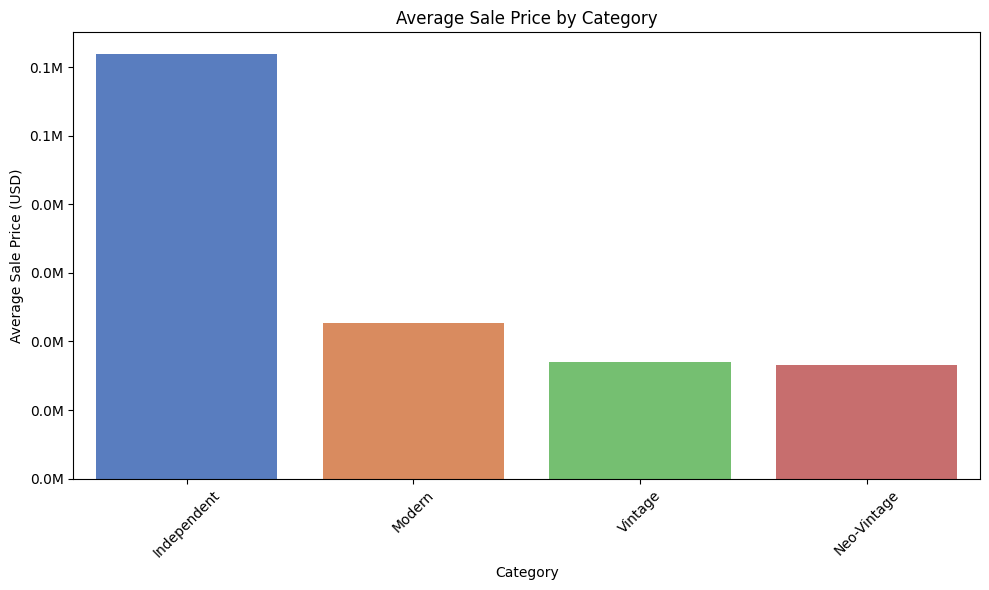
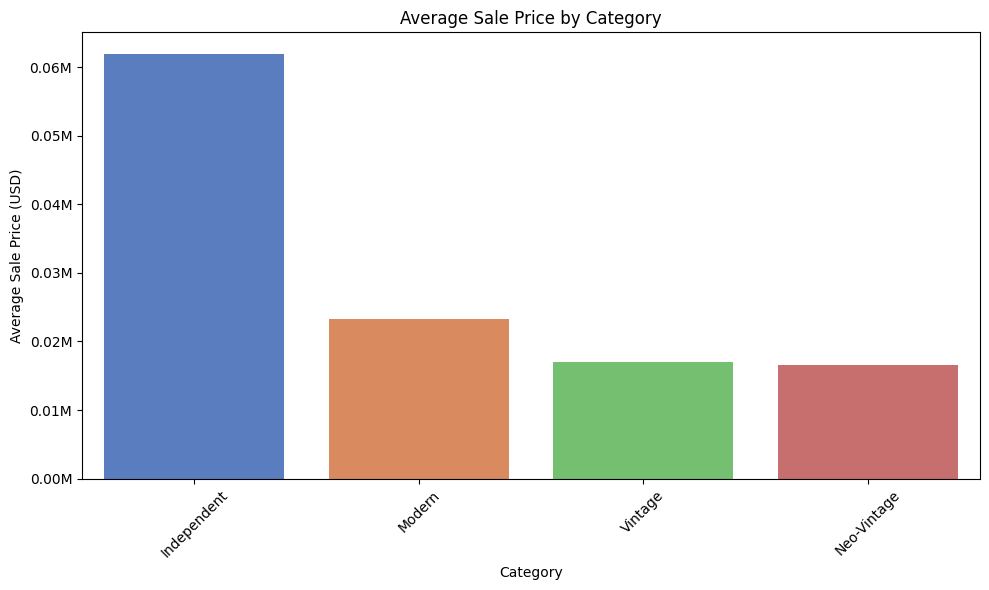
updated html

diff --git a/docs/index.html b/docs/index.html
@@ -537,20 +537,20 @@
                 <img src="images/cat_by_avg_sale_price.png" alt="Average Sale Price by Category">
             </div>
             <p>
-                <strong> Modern watches overwhelmingly dominated the auction, generating over $7 million in total sales.</strong> This suggests a strong preference among collectors for contemporary timepieces, likely due to their widespread availability, advanced technology, and appeal to a broader audience. 
-                In contrast, categories like vintage, independent, and neo-vintage contributed smaller portions to the total sales, with vintage watches leading among these.<br><br>
+                Modern watches dominate in terms of total sales, generating over $7 million, significantly outpacing other categories. This reflects the high demand and broader appeal of contemporary timepieces, 
+                which tend to attract both new and seasoned collectors. The accessibility and availability of modern watches likely contribute to their overwhelming market share.<br><br>
 
-                Independent watches, despite contributing less to total sales, command the highest average prices, exceeding $100,000 per watch. This indicates that independent watchmakers are highly valued for their exclusivity, 
-                craftsmanship, and rarity. Collectors are willing to pay a premium for these timepieces, which cater to more niche tastes.<br><br>
+                Independent watches, on the other hand, command the highest average sale price, exceeding $60,000 per piece, despite having relatively low total sales. 
+                This suggests that independent watchmakers, while catering to a more niche market, are highly valued for their exclusivity, craftsmanship, and unique designs, leading to higher price points for each sale.<br><br>
 
-                Modern watches, while leading in total sales volume, tend to have more accessible price points. Their popularity likely stems from the fact that they appeal to a wider range of buyers, offering a balance between 
-                innovation and affordability, making them attractive to a broader market.<br><br>
+                Vintage and neo-vintage watches have more modest performances in both total sales and average sale price. Vintage watches show slightly stronger overall sales than independent watches, 
+                yet they fall behind in terms of average price. Neo-vintage watches, blending modern and vintage elements, remain less popular, perhaps due to a smaller collector base or less perceived value compared to other categories.<br><br>
 
-                Vintage and neo-vintage watches have comparable average prices, though vintage watches achieved better sales overall. These categories attract collectors interested in historical significance and classic designs, 
-                though neo-vintage, which blends modern and vintage elements, remains an emerging area in the luxury watch market.<br><br>
+                The clear distinction between modern watches, which lead in volume, and independent watches, which lead in value, indicates diverse buyer preferences in the auction market. While modern timepieces appeal to a broader audience, 
+                collectors are willing to pay a premium for rare and artisanal independent watches. This balance reflects a market that caters to both mainstream buyers and connoisseurs.<br><br>
 
-                To conclude, modern watches are preferred in terms of volume, while independent watches hold the highest value among collectors. Vintage and neo-vintage watches continue to appeal to a more specialized group of buyers, 
-                highlighting a diverse market that caters to various preferences from modern designs to rare, handcrafted pieces.
+                In summary, modern watches dominate total sales, while independent watches lead in average sale price. Vintage and neo-vintage watches have more limited demand but still maintain relevance. 
+                The data suggests a strong and diverse market, with collectors showing interest in both readily available modern pieces and more exclusive, high-end independent creations.
             </p>
 
         </div>

diff --git a/index.html b/index.html
@@ -33,7 +33,7 @@
                 </p>
                 <!-- Methodology -->
                 <h2 style="text-align: center;">Methodology</h2>
-                <p>The data presented in this report was collected from auction results published by Phillips and Christie's, covering the period of the September 2024 New York auction season. 
+                <p>The data presented in this report was collected from auction results published by Phillips and Christie's, covering the period of the June 2024 New York auction season. 
                     Our comprehensive breakdown encompasses total lots offered, overall sales figures, and achieved sell-through rates, providing a nuanced understanding of the market's strength and buyer preferences. 
                     Additionally, this report identifies standout timepieces that garnered significant interest, reflecting evolving collector tastes and investment patterns in the luxury watch sector. 
                     Through this analysis, we aim to equip watch enthusiasts, industry professionals, and market observers with crucial information to navigate the complex and ever-changing landscape of high-end watch auctions</p>
